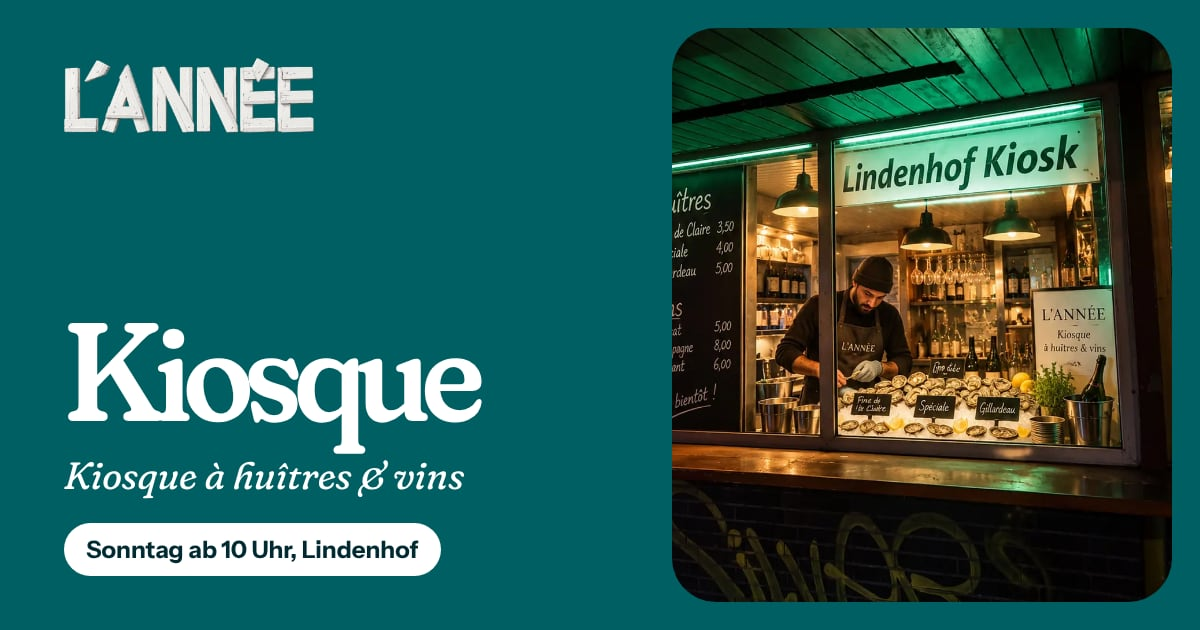
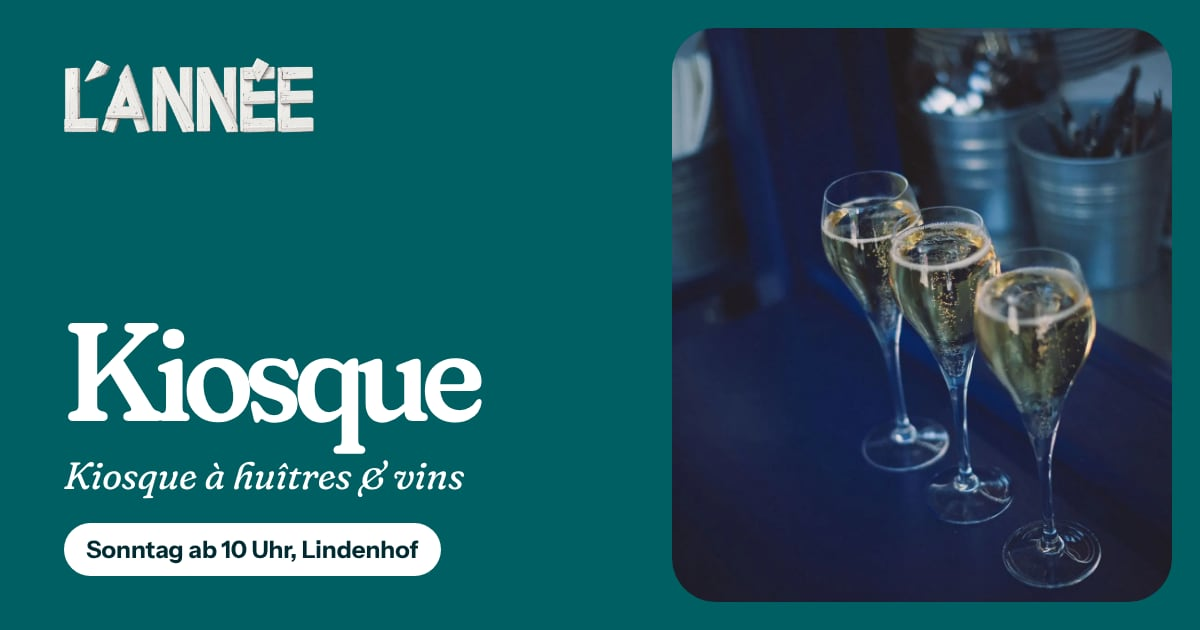
Generierte Bilder entfernt: nur noch echte Fotos
Entfernt (Quellen, Varianten, Manifest, Alt-Texte): historisch-abend, historisch-tafel,
historisch-boot, austernplatte, kiosque-visualisierung, hero-austern-hof.

- Startseite: Hero garage-hof; Orte garage-eingang + garage-austernbar, bulles + baguettes,
  marche-wagen + marche-auslage; Karten-Teaser huitres-glace; Bilderreihe ohne Wiederholungen
- Ortsseiten: Garage-Intro garage-eingang (Viertel ohne Bild), Kiosque-Hero bulles und Intro
  baguettes, Marché-Intro huitres-glace
- Karte: Banner bulles; Austernatlas ohne Banner; Styleguide mit echten Fotos
- Share-Bilder lannee und kiosque neu (garage-hof, bulles)
- Bildnachweis DE/FR/EN: nur noch „Fotos: L’ANNÉE“; CLAUDE.md, README, KONZEPT angepasst

Claude-Session: https://claude.ai/code/session_0135uWaEtNpsXTyhtVPuTWmv

diff --git a/src/styles/05-pages.css b/src/styles/05-pages.css
@@ -1,6 +1,6 @@
 /* ==========================================================================
    Seiten (Umbau 05.11.2026): Vollbild-Hero, viel Weiß, große runde Bildkarten,
-   historische Bilder (50er, kein Schwarzweiß) im Wechsel mit echten Fotos.
+   nur echte Fotos (keine generierten Bilder).
    ========================================================================== */
 
 /* Startseite: Vollbild-Hero ----------------------------------------------------- */
@@ -160,7 +160,7 @@
   margin-top: var(--space-s);
 }
 
-/* Die drei Orte im Detail: echtes Foto groß, ein Abzug (historisch, 50er, oder ein Detail) darüber */
+/* Die drei Orte im Detail: Foto groß, ein Detailfoto als Abzug darüber */
 
 .places {
   display: grid;

diff --git a/CLAUDE.md b/CLAUDE.md
@@ -15,13 +15,13 @@ Website der Dachmarke L’ANNÉE (Austern & Bulles, Mannheim) mit Garage, Kiosqu
 - **Aufgeräumt, großflächig, viel Weiß, runde Ecken** (Vorbild: große Bildkarten und Pillen-Buttons wie bei redotpay.com). Je Abschnitt eine Aussage, sehr viel Luft (`--section-y`). Radien nach Größe gestaffelt: `--r-xl` (große Bildkarten, Farbflächen, Hero-Kacheln, Fußzeile), `--r-l` (Karten im Inhalt), `--r-m`, `--r-pill` (Buttons, Filter, Hinweise). Helle Karten auf Weiß: `--tint` (ein Hauch Écume).
 - **Keine Zeichnungen – nirgends:** keine Bleistift-Scribbles, keine Strichzeichnungen der Orte, keine Austern-Zeichnungen im Atlas, keine Speisen-Icons, keine Embleme. Im Sprite nur funktionale Icons (Pfeile, Instagram). Keine Uhren (Signets).
 - **Kein Film.** Der Hero ist ein Vollbild-Foto.
-- **Hero der Startseite = Vollbild** (`100svh`): historisches Foto (`historisch-abend`), darauf die **Mega-Headline** über drei Zeilen, die zum Besuch auffordert (DE „Drei Orte. Ein Wochenende. Komm vorbei!“, FR „Trois adresses. Un week-end. Passez nous voir !“, EN „Three places. One weekend. Come by!“ – `pages.home.headline`), darunter der Lead und **die drei Orte als Kacheln in ihren Farben** (Name, Tage/Uhrzeit, Viertel, Pfeil). Man muss sofort sehen, dass es drei Orte gibt.
-- **Bilder: historisch gepaart mit echt.** Historische Bilder nur in den Farben der 50er (`historisch-abend`, `-tafel`, `-boot`), **keine Schwarzweiß-Bilder** (Vorgabe 06.11.2026, die fünf SW-Bilder sind entfernt). Sie stehen neben den echten Fotos der Orte: auf der Startseite je Ort das echte Foto groß und darüber ein Abzug mit weißem Rand (historisch oder ein Detailfoto, z. B. Marché: `huitres-glace`), auf den Ortsseiten neben dem Intro. Die Bilderreihen zeigen echte Fotos. Die historischen Bilder sind KI-Motive aus dem Higgsfield-Verlauf, gebracht in den Look mit `python3 scripts/historisch.py 50er …` (Vorgabe 05.11.2026: vorhandene Higgsfield-Bilder nutzen).
+- **Hero der Startseite = Vollbild** (`100svh`): echtes Foto vom Hof der Garage (`garage-hof`), darauf die **Mega-Headline** über drei Zeilen, die zum Besuch auffordert (DE „Drei Orte. Ein Wochenende. Komm vorbei!“, FR „Trois adresses. Un week-end. Passez nous voir !“, EN „Three places. One weekend. Come by!“ – `pages.home.headline`), darunter der Lead und **die drei Orte als Kacheln in ihren Farben** (Name, Tage/Uhrzeit, Viertel, Pfeil). Man muss sofort sehen, dass es drei Orte gibt.
+- **Bilder: nur echte Fotos** (Vorgabe 06.11.2026). **Keine generierten Bilder** (KI, Higgsfield), keine Visualisierungen, keine historischen KI-Motive, keine Schwarzweiß-Bilder. Am 06.11.2026 entfernt: alle `historisch-*`, `austernplatte`, `kiosque-visualisierung`, `hero-austern-hof`. Auf der Startseite je Ort ein Foto groß und ein Detailfoto als Abzug mit weißem Rand darüber; auf den Ortsseiten ein Foto neben dem Intro. Vom Kiosque gibt es noch kein echtes Foto; bis dahin steht dort `bulles`. Neue Bilder nur als echte Fotos (Quelle in `assets-src/`, `npm run images -- name`).
 - **Nur Blau mit Zug ins Grün** (am 05.11.2026 abends noch einmal um 18° Richtung Grün geschoben): Bleu nuit #002B32, Océan #005F62, Marée #1C8171, Embrun #72C5AC, Écume #D2FBE8 und Weiß. Petrol bis Meergrün, **kein reines Grün**. Entweder blaue Fläche mit weißer Schrift oder weiße Fläche mit blauer Schrift; nichts Schwarzes, nichts Graues (statt Schwarz: Bleu nuit). **Die drei Orte bleiben klar getrennt:** Garage = Bleu nuit (Abend), Kiosque = Océan (Sonntag), Marché = Marée (Morgen). Embrun nur für Linien, Écume für Akzente (aktiv/hover, Hinweise). In CSS nur die Variablen aus `tokens.mjs` (`--ink`, `--garage`, `--kiosque`, `--marche`, `--brand`, `--muted`, `--embrun`, `--ecume`, `--blanc`) und daraus abgeleitete (`--tint`, `color-mix`), keine festen Farbwerte. Farbwechsel nur in `tokens.mjs` (und `hex` in `LOCATIONS`), danach `npm run brand-assets` (Favicons und Share-Bilder haben die Farbe eingebacken).
 - **Logo = weiße Holzbuchstaben**, freigestelltes Rasterbild (Quelle `assets-src/logo-lannee-holz.png`, Varianten mit `npm run images -- logo-lannee`, eingebunden über `logo()` als `<picture>`). **Weiß gehört auf Blau:** Das Logo steht nie auf Weiß. **Es sitzt fest in der Kopfzeile** (Vorgabe 05.11.2026, die Wander-Animation ist entfernt), daneben feine Linie und Slogan. **In der Fußzeile genau gleich:** Logo · Linie · Slogan (Vorgabe 06.11.2026), beide über denselben Baustein `lockup()` in `layout.mjs`; Größe über `--lockup-h` (seit 06.11.2026 etwas größer: 1,95 rem, ab 1024 px 2,55 rem).
 - **Slogan am Logo immer übersetzt:** DE „Austern & Bulles“, FR „Huîtres & Bulles“, EN „Oysters & Bulles“ (`SITE.taglines`). „Bulles“ bleibt französisch, nie „Bläschen“.
 - **Kopfzeile:** Bleu nuit mit weißem Logo, Linie, Slogan und weißer Navigation in Pillen (aktiv Écume). Auf Seiten mit Vollbild-Foto (Start, Garage, Kiosque, Marché; `OVERLAY_HEADER` in `layout.mjs`) liegt sie durchsichtig über dem Bild und wird nach dem Scrollen Bleu nuit (`initHeader()`). Menü-Schalter bis 1279 px nur als Hamburger (ohne Text „Menü“, der steht nur für Screenreader); die volle Navigation erst ab 1280 px, weil sie mit dem größeren Logo zwischen 1024 und 1279 px nicht passt. Das mobile Menü ist weiß mit blauer Schrift.
-- **Ortsseiten:** Vollbild-Foto (92svh) mit großem Namen, Pille mit Tag/Uhrzeit, Untertitel; dann Fakten als runde Karten, Zitat groß in der Farbe des Ortes, Intro neben einem historischen Bild, Karte als Farbfläche in der Farbe des Ortes, Bilderreihe, Viertel, Anfahrt (helle Fläche, Kartenlinks als Pillen), die beiden anderen Orte als Farbkacheln.
+- **Ortsseiten:** Vollbild-Foto (92svh) mit großem Namen, Pille mit Tag/Uhrzeit, Untertitel; dann Fakten als runde Karten, Zitat groß in der Farbe des Ortes, Intro neben einem Foto, Karte als Farbfläche in der Farbe des Ortes, Bilderreihe, Viertel, Anfahrt (helle Fläche, Kartenlinks als Pillen), die beiden anderen Orte als Farbkacheln.
 - **Öffnungszeiten** (Startseite, direkt unter dem Hero, Vorgabe 06.11.2026): **ganz dezent** als schlichte Zeile (`weekPlan()`): je Öffnungstag der Name klein in Versalien, daneben die Orte mit Farbpunkt und Uhrzeit; auf breiten Schirmen trennt eine feine Linie die Tage, mobil eine Zeile je Tag. Keine Überschrift (nur für Screenreader), kein Lead-Text, keine Karten, keine Live-Pille. Das Skript schreibt nur „heute“/„morgen“ an den Tag, lässt den Punkt des gerade geöffneten Orts leise pulsieren („Jetzt geöffnet“) und markiert Pausen. Nur Tage mit Öffnung.
 - **Fußzeile:** Bleu nuit mit großen runden Ecken oben, Logo · Linie · Slogan wie in der Kopfzeile, Links als Pillen. Ohne die drei Orte, ohne „Gestaltung: Grafitecture“. **Hinweis „Diese Webseite dient zur reinen Darstellung und ist fiktiv.“** als schlichte Textzeile ganz unten (`SITE.demoNotice`).
 - Schriften: Fraunces (Headlines, kräftig um 500–560, eng gesetzt) und Instrument Sans (Text, UI), beide selbst gehostet.
@@ -34,7 +34,7 @@ Website der Dachmarke L’ANNÉE (Austern & Bulles, Mannheim) mit Garage, Kiosqu
 - Mega-Headline und alle Texte: `src/content/i18n/{de,fr,en}.mjs`
 - Karte: `src/content/menu.mjs` · Rechtstexte: `src/content/legal.mjs` (die Unterseite „Das Jahr“ wurde am 01.11.2026 gelöscht; alte Adressen leiten auf die Startseite)
 - Austernatlas (eigene Seite `/austernatlas/`, Menüpunkt): Texte `src/content/oysters.mjs`, Vorlage `src/pages/atlas.mjs` (runde Karten, ohne Zeichnungen)
-- Bilder: Quellen in `assets-src/`, Liste in `scripts/images.mjs` (`SOURCES`), Alt-Texte in `src/content/media.mjs`; historischer Look: `scripts/historisch.py`
+- Bilder: Quellen in `assets-src/`, Liste in `scripts/images.mjs` (`SOURCES`), Alt-Texte in `src/content/media.mjs`. (`scripts/historisch.py` und die Higgsfield-Übergabe stammen aus der Zeit der KI-Bilder und werden nicht mehr gebraucht.)
 - Higgsfield-Dateien ins Repo holen: Die Arbeitsumgebung erreicht die Higgsfield-Adressen nicht. Auf dem Zweig `tools/fetch-assets` „Name URL“-Zeilen eintragen und pushen: `assets-src/fetch/thumbs.txt` (Vorschaubilder), `assets-src/fetch/full.txt` (Vollauflösung als JPEG), `assets-src/fetch/videos.txt` (je vier Standbilder aus Videos) oder `assets-src/scribbles/urls.txt` (Rohdateien). Die Workflows legen die Dateien auf diesem Zweig ab.
 - Farben, Typo-Skala (Goldener Schnitt, `clamp()`), Breakpoints: `src/content/tokens.mjs`; Radien, `--tint`, `--section-y`: `src/styles/02-base.css`
 - Templates: `src/pages/*.mjs`, Bausteine: `src/lib/components.mjs` (`logo`, `picture`, `button`, `weekPlan` …), Layout/Kopf-/Fußzeile/JSON-LD: `src/lib/layout.mjs`

diff --git a/README.md b/README.md
@@ -57,7 +57,7 @@ Nur einzelne Bilder neu erzeugen: `npm run images -- name1 name2` (Namen wie in 
 
 Favicons und Open-Graph-Bilder: `npm install --no-save sharp playwright && npm run brand-assets`.
 
-**Historische Bilder** (Farben der 50er, seit 05.11.2026; keine Schwarzweiß-Bilder seit 06.11.2026): Vorlage (z. B. ein KI-Bild aus dem Higgsfield-Verlauf) mit `python3 scripts/historisch.py 50er vorlage.jpg assets-src/historisch-name.jpg [--breite 2400] [--ausschnitt x,y,b,h]` in den Look bringen (braucht numpy und Pillow), dann wie jedes Bild in `SOURCES` und `media.mjs` eintragen und `npm run images -- historisch-name`. Auf den Seiten stehen sie immer im Wechsel mit den echten Fotos.
+**Nur echte Fotos** (seit 06.11.2026): keine generierten Bilder (KI), keine Visualisierungen, keine Schwarzweiß-Bilder. `scripts/historisch.py` und die Higgsfield-Übergabe unten stammen aus der Zeit der KI-Bilder und werden nicht mehr gebraucht.
 
 Higgsfield-Dateien ins Repo holen (die Arbeitsumgebung erreicht die Higgsfield-Adressen nicht): auf dem Zweig `tools/fetch-assets` Zeilen „Name URL“ eintragen und pushen – `assets-src/fetch/thumbs.txt` (Vorschaubilder 640 px), `assets-src/fetch/full.txt` (Vollauflösung als JPEG), `assets-src/fetch/videos.txt` (je vier Standbilder aus Videos) oder `assets-src/scribbles/urls.txt` (Rohdateien). GitHub-Workflows laden die Dateien und committen sie auf diesen Zweig.
 

diff --git a/docs/KONZEPT.md b/docs/KONZEPT.md
@@ -110,7 +110,7 @@ Seiten sind auf dem Desktop immer volle Breite. Begrenzt wird nur die Zeilenlän
 
 1. **Aufgeräumt und großflächig:** viel Weiß, sehr viel Luft zwischen den Abschnitten, je Abschnitt eine Aussage. Große Bildkarten und Farbflächen mit runden Ecken (Radien nach Größe gestaffelt), Buttons als Pillen.
 2. **Ein mutiger Moment:** der Vollbild-Hero mit der Mega-Headline „Drei Orte. Ein Wochenende. Komm vorbei!“ und den drei Orten als Farbkacheln – man sieht sofort, dass es drei Orte gibt. Auf den Ortsseiten der riesige Name über dem Vollbild-Foto.
-3. **Historisch gepaart mit echt:** historische Bilder in den Farben der 50er stehen neben den echten Fotos der Orte (auf der Startseite als Abzug mit weißem Rand über dem echten Foto). Keine Schwarzweiß-Bilder (seit 06.11.2026).
+3. **Nur echte Fotos:** keine generierten Bilder, keine Visualisierungen, keine Schwarzweiß-Bilder (seit 06.11.2026). Auf der Startseite je Ort ein Foto groß und ein Detailfoto als Abzug mit weißem Rand darüber.
 4. **Keine Zeichnungen, kein Film, keine Uhren.** Bewegung nur, wo sie etwas zeigt (Kopfzeile wird beim Scrollen blau, Live-Punkt pulsiert, wenn geöffnet). `prefers-reduced-motion` wird respektiert.
 5. **Datenschutz durch Technik:** keine Cookies, kein Tracking, keine Einbettungen, Kartenlinks statt Karten.
 
